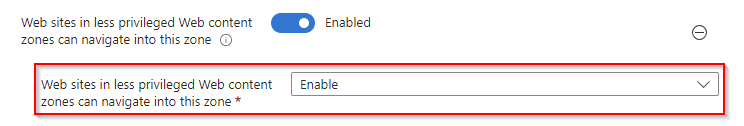
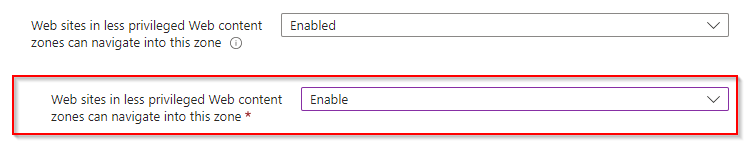
www.deploymentshare.com build

Changed region(s): [[0.0, 0.5, 1.0, 0.9524], [0.0309, 0.0714, 0.9892, 0.381]]

diff --git a/articles/bp-forticlient-ts/index.html b/articles/bp-forticlient-ts/index.html
@@ -19670,14 +19670,14 @@ header {
 <p><img src="https://deploymentshare.com/articles/bp-forticlient-ts/img/bp-forticlient-ts1_hudc625f6ef7d53d78242f0491ec51ee06_25608_filter_13417149144224408057.png#centre" alt="SAML Connection"  /></p>
 <p>..an error was showing..</p>
 <p><img src="https://deploymentshare.com/articles/bp-forticlient-ts/img/bp-forticlient-ts3_hu34d5dee3980cb432a77be481733dc784_7638_filter_2682286697350971627.png#centre" alt="Script Error"  /></p>
-<p>My instincts here screamed Internet Explorer error. It had a somewhat familiar look to it.  But.. Windows 11.. and we use Edge now, right? If you search this online, you will see one person suspect this and get shot down, but lots of people using a work around (which works by the way) of using the following option on your configuration:</p>
+<p>My instincts here screamed Internet Explorer error. It had a somewhat familiar look to it.  But.. Windows 11.. and we use Edge now, right? If you search this online, you will see one person suspected this and get shot down, but lots of people using a work around (which works by the way) of using the following option on your configuration:</p>
 <p><img src="https://deploymentshare.com/articles/bp-forticlient-ts/img/bp-forticlient-ts4_hu7b984e34c0c75656244b56f8e5489685_22879_filter_1934427700124516184.png#centre" alt="External Browser"  /></p>
 <p>This forces &ldquo;some element&rdquo; of the VPN to use Edge, and thus connects successfully.  I say &ldquo;some element&rdquo;, because in truth, I&rsquo;m not sure. There are no local logs and nothing recorded in event viewer so this is good old fashioned guess work. When you use this option and you try to connect your SAML VPN, it opens an Edge window showing this, and connects.</p>
 <p><img src="https://deploymentshare.com/articles/bp-forticlient-ts/img/bp-forticlient-ts5_hub9526fca5538938d9be3280dd796c543_11958_filter_16074339285591417788.png#centre" alt="Edge Browser Connection"  /></p>
 <p>You can be forgiven for thinking &ldquo;<em>why not just export a new profile with this in</em>&rdquo; because if it works, it works, right? Looking online at some of the community posts, some have done this, some have even logged tickets with Fortinet and been told to do this as a workaround. One post claimed the problem was fixed in version <strong>7.2.3</strong>, however, one said the problem had returned in version <strong>7.2.4</strong>. Comedy. Rather than use workarounds, my customer wanted a fix or at least to identify the problem so the sleeves were rolled up and I began a trial-and-error process to figure out what was causing it.</p>
 <h3 id="approach">Approach</h3>
 <p>My approach was simple, find out which policy setting causes it by stripping out sub categories one by one until it works and finally narrowing down the setting within the sub category.  I thought this was going to be quick and easy. It was not, by any stretch of the imagination, quick.  Hopefully my efforts will save you time.</p>
-<p>Because I&rsquo;m cocky, and my &lsquo;spidey-sense&rsquo; was telling me it was an Internet Explorer error, thats the thing I removed.  BINGO! So we certainly had our culprit.</p>
+<p>Because I&rsquo;m cocky, and my &lsquo;spidey-sense&rsquo; was telling me it was an Internet Explorer error, thats the thing I removed first.  BINGO! So we certainly had our culprit.</p>
 <p>Next I started to remove the sub categories one by one.  Here is a list of the policy sub categories all of which sit under the category of &ldquo;Administrative Templates:</p>
 <table>
 <thead>
@@ -19759,7 +19759,7 @@ header {
 <p>Eventually, I narrowed it down to this</p>
 <p><img src="https://deploymentshare.com/articles/bp-forticlient-ts/img/bp-forticlient-ts7_hu4dbb1d4d05cffadc8aeb69b9fd0bb92c_7126_filter_18267954117777437171.png#centre" alt="Policy Setting"  /></p>
 <p>Change to this and it works!</p>
-<p><img src="https://deploymentshare.com/articles/bp-forticlient-ts/img/bp-forticlient-ts6_hu0d6bb3d89f2c22d18585c0400c23dc2f_6950_filter_15146520843317252339.png#centre" alt="Policy Setting"  /></p>
+<p><img src="https://deploymentshare.com/articles/bp-forticlient-ts/img/bp-forticlient-ts6_huf527a9fdc4799e9ac31e8489c6305009_6655_filter_15278624126356406654.png#centre" alt="Policy Setting"  /></p>
 
 
 
@@ -19848,7 +19848,7 @@ header {
 
 
 
-<p>Given how long it takes to change something, wait for that change to be processed AND reported back to the Intune console I can&rsquo;t quite tell you how long this fix took me to find (nah, its longer than what you&rsquo;re thinking).</p>
+<p>Given how long it takes to change something, wait for that change to be processed AND be reported back to the Intune console I can&rsquo;t quite tell you how long this fix took me to find (nah, its longer than what you&rsquo;re thinking).</p>
 <p><img src="https://deploymentshare.com/articles/bp-forticlient-ts/img/bp-forticlient-ts2_hudb1be6e2c7abddd80290ea75b3f71bbb_16242_filter_2267163777202055584.png#centre" alt="VPN Connected"  /></p>
 
 
@@ -19886,7 +19886,7 @@ header {
  
 
 
->Group Policy Search</a> and searching for part of the text &ldquo;Web sites in less privileged Web content zones&rdquo; you can see that you can set this is MANY locations in Group Policy so finding the right one in your Group Policies if you&rsquo;re still domain joined (why though?) and experimenting with enabling it may yield the same results as my Settings Catalog policy tests (update me if it does please!)</p>
+>Group Policy Search</a> and searching for part of the text &ldquo;Web sites in less privileged Web content zones&rdquo; you can see that you can set this is MANY locations in Group Policy so finding the right one in your Group Policies if you&rsquo;re still domain joined (why though?) and experimenting with enabling it may yield the same results as my Settings Catalog policy tests (update me if it does please!).</p>
 <h3 id="risks">Risks</h3>
 <p>According to my research, the <strong>Web sites in less privileged Web content zones can navigate into this zone</strong> setting in Internet Explorer (IE) controls the ability of websites from lower security zones to navigate into and interact with content in higher security zones. Erm, ok. This setting is a part of IE&rsquo;s security features designed to prevent malicious websites from leveraging content in more trusted zones to execute attacks. So what does this mean in laymans terms?</p>
 <p>Essentially, when this setting is <strong>enabled</strong>, it allows websites from less privileged zones (such as the Internet or Restricted zones that we want to keep under control) to navigate into more privileged zones (such as the Local Intranet or Trusted sites zones). This can include accessing resources, executing scripts, or submitting forms within the more privileged zones. When this setting is <strong>disabled</strong>, it restricts websites in less privileged zones from navigating into more privileged zones. This restriction helps to mitigate cross-zone scripting attacks and prevents potentially malicious websites from leveraging the security context of more trusted zones to perform harmful actions.</p>
@@ -19897,7 +19897,7 @@ header {
 <li><strong>Elevation of Privileges</strong> : Attackers may leverage the trust level of a higher privileged zone to perform actions with elevated permissions.</li>
 </ul>
 <h3 id="disclaimer">Disclaimer</h3>
-<p>It would be foolish of me to write this entire post about what is essentially an old version of the Forticlient app, without highlighting the obvious issue that <strong>you should always run the latest version of applications to reduce your security risk</strong>. Third party patching <strong>is</strong> part of your security posture that will come under scrutiny in an audit and you must try to keep up to date with patches and bug fixes. I have not tested this using the latest version, yet - but I may drop back in to update this post later given I have read community comments about the same thing happening on newer versions. It may also be pertinent to know that the SAML authentication element within FortiClient, does not support the Always ON element of the product so will leave you tied to a user-initiated VPN.</p>
+<p>It would be foolish of me to write this entire post about what is essentially an old version of the Forticlient app, without highlighting the obvious issue that <strong>you should always run the latest version of applications to reduce your security risk</strong>. Third party patching <strong>is</strong> part of your security posture that will come under scrutiny in an audit and you must try to keep up to date with patches and bug fixes. I have not yet tested this using the latest version (as of the time of writing), but, I have read the same error is present anyway. I did not have an option to test it.</p>
 <i>
 I appreciate you taking the time to read my blog.<br>
 Your interest and support keep me motivated to create more content. <br>
